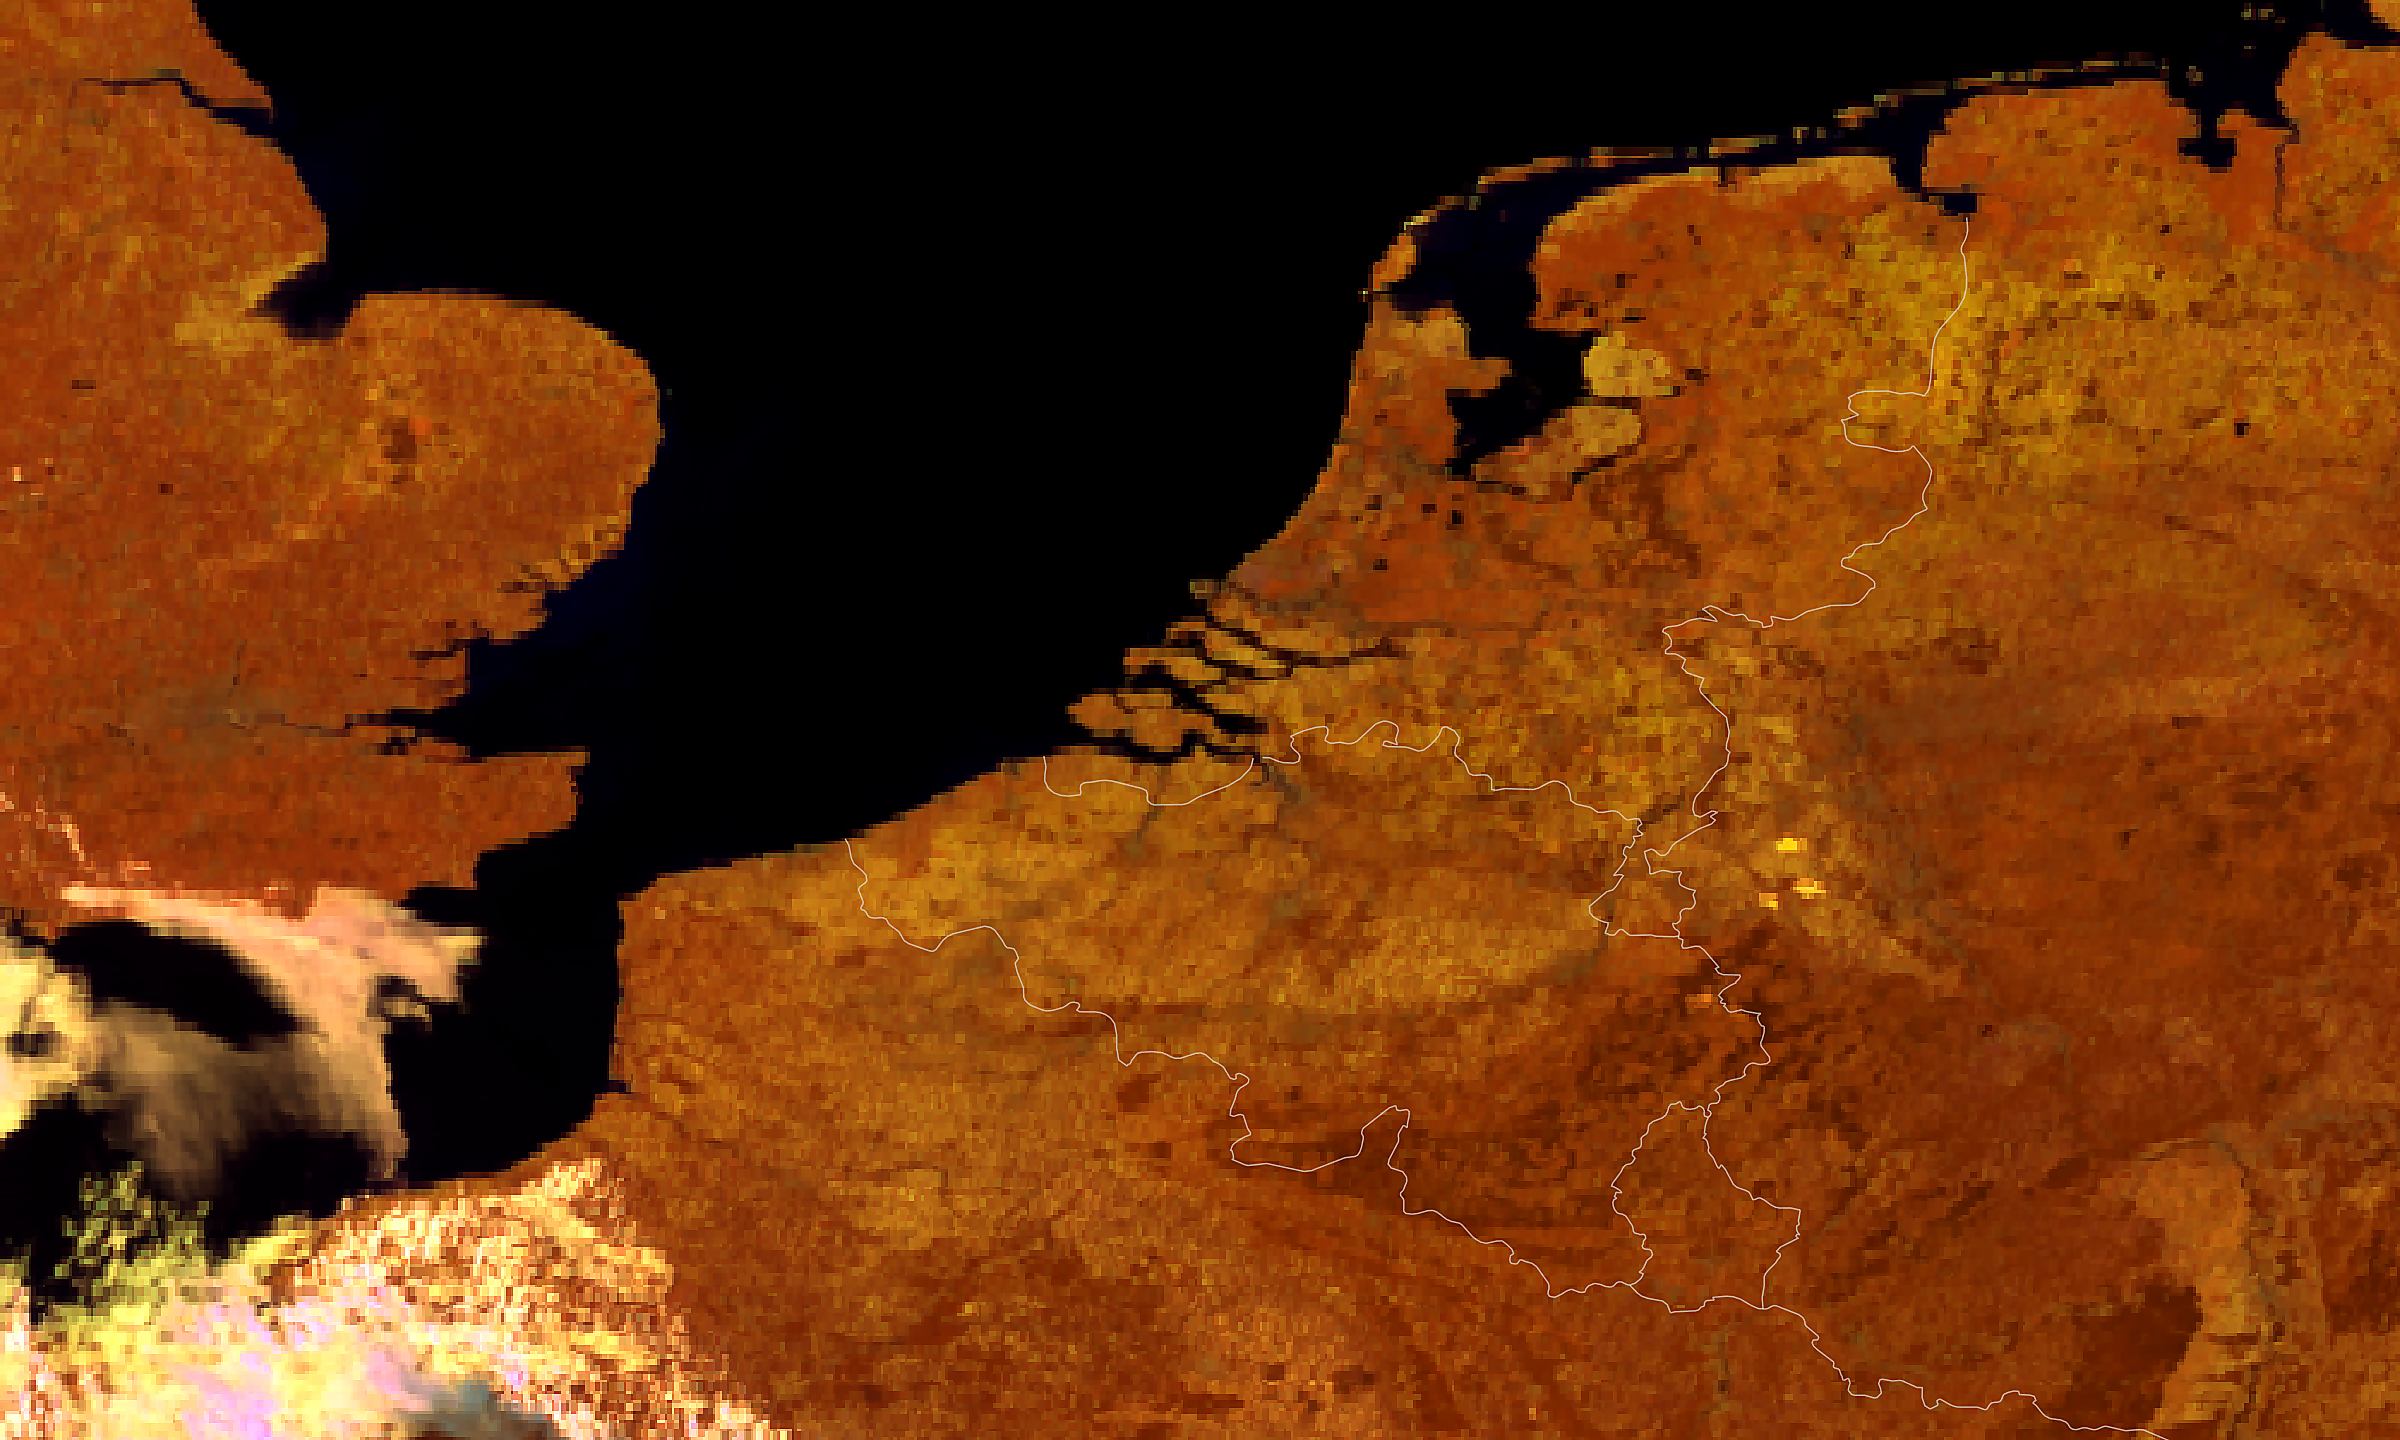
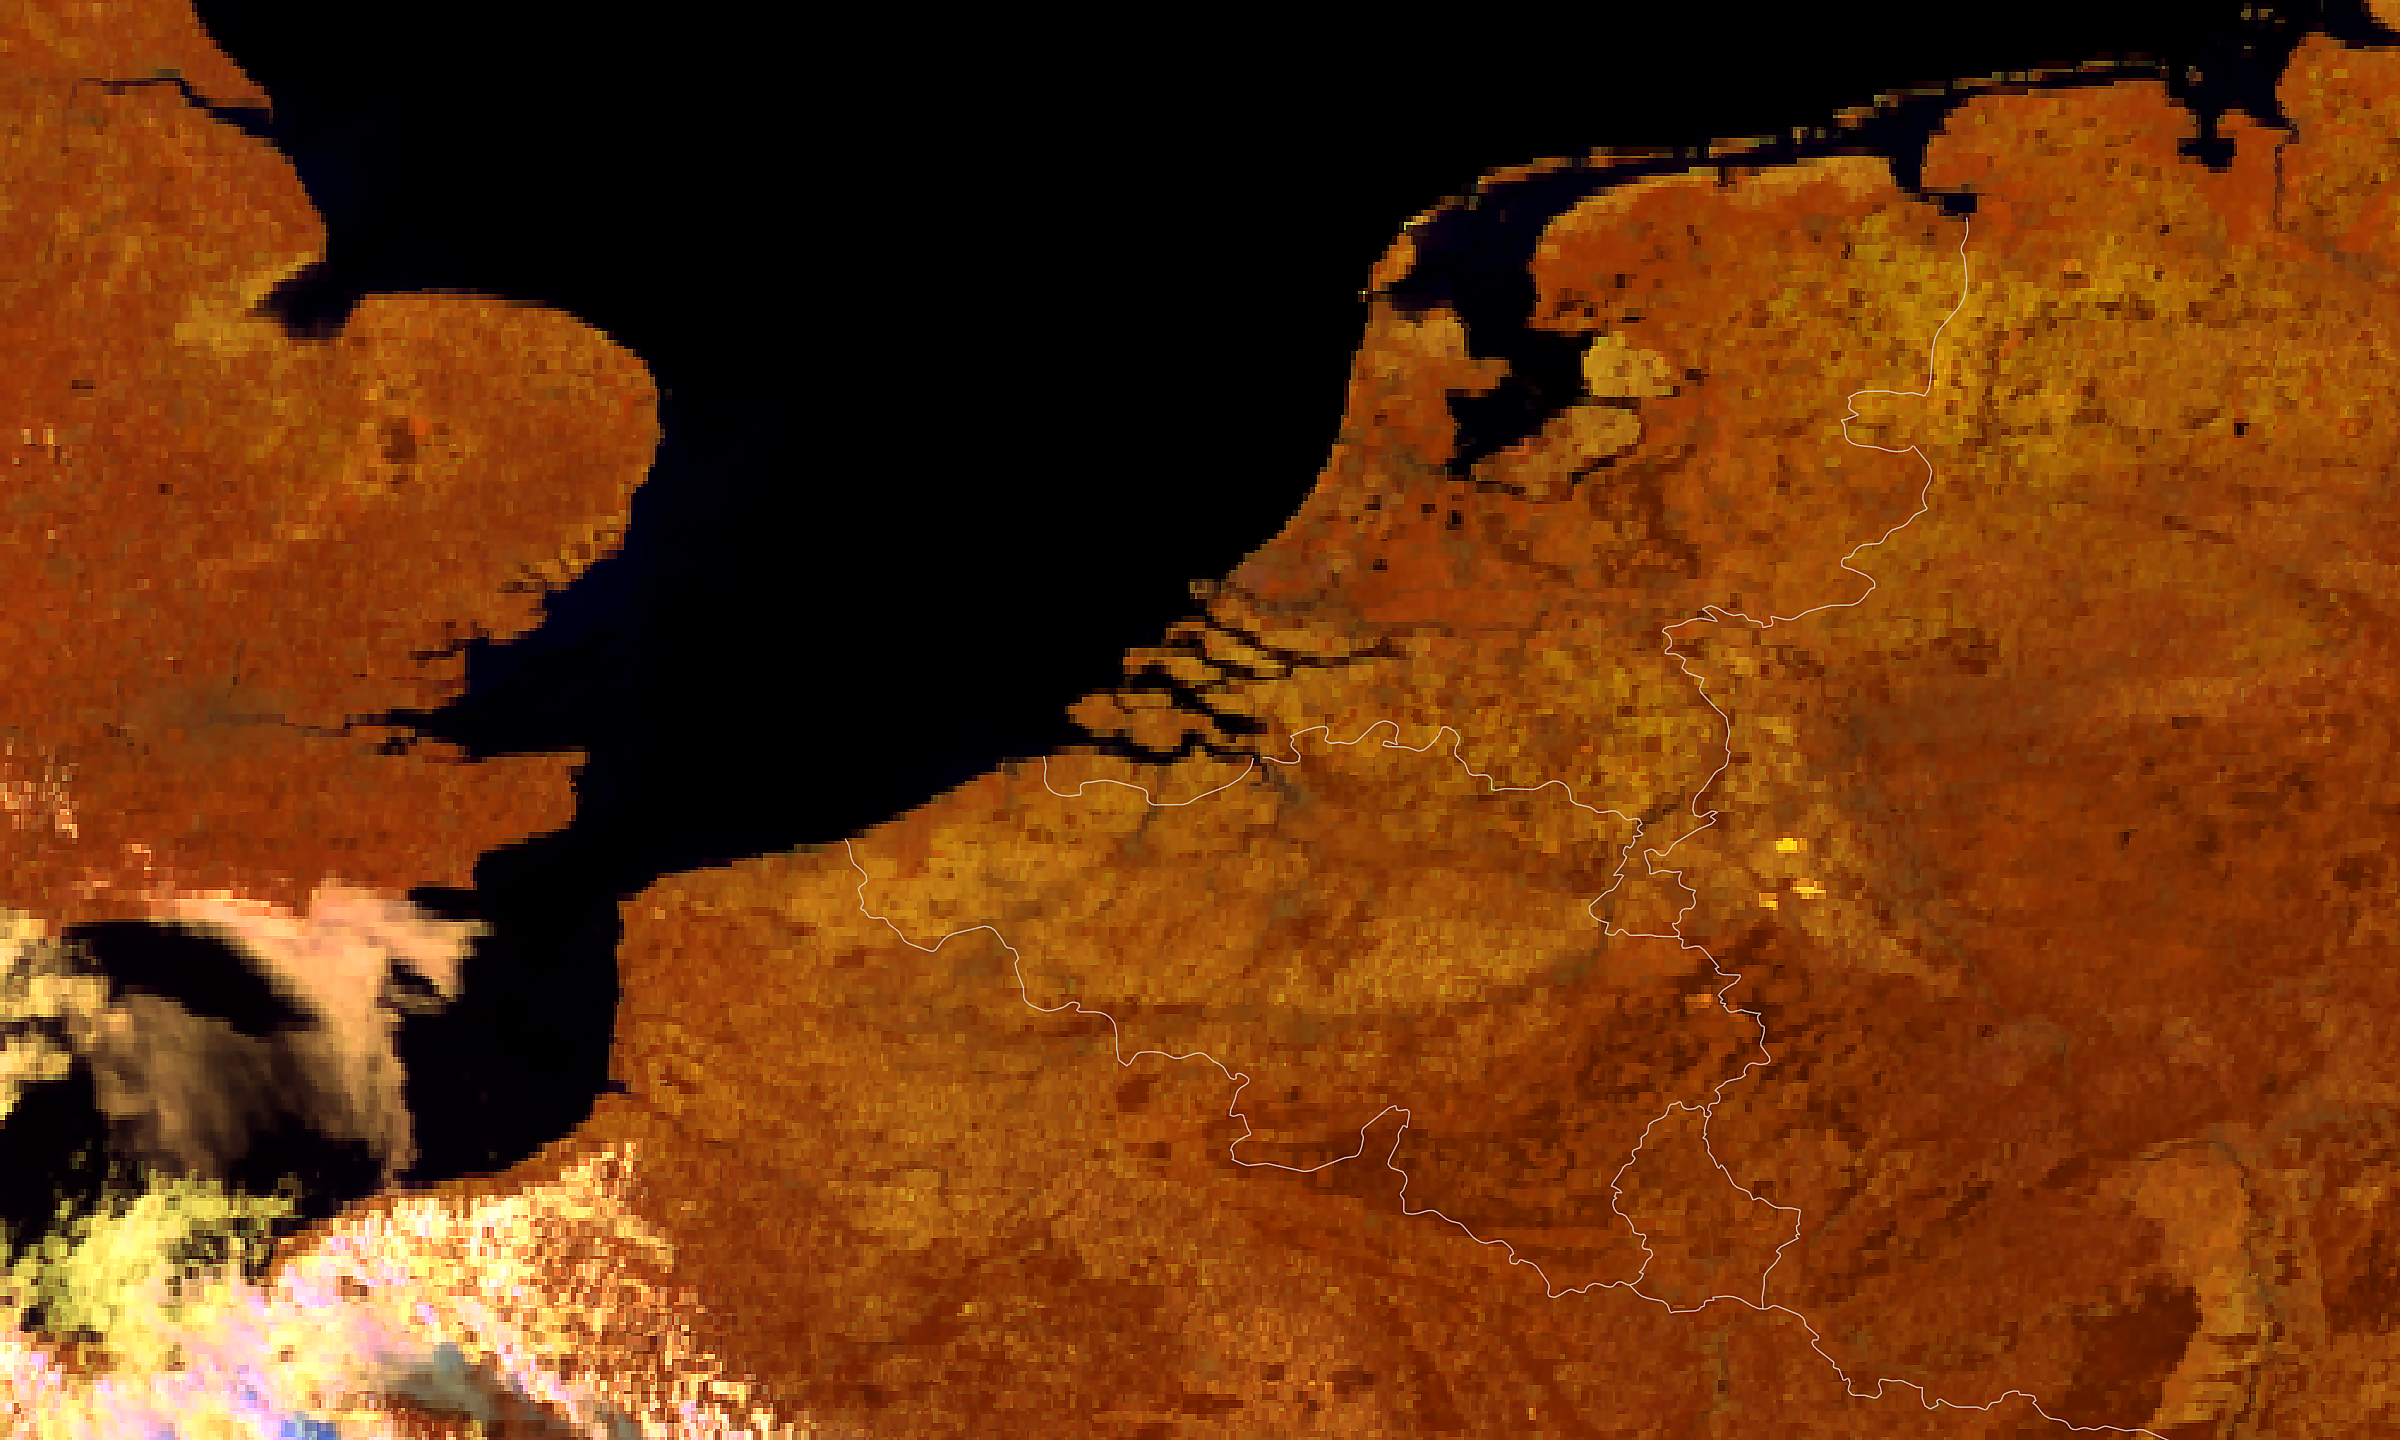
MTG Benelux satellietbeeld update 2026-05-01 15:30

Changed region(s): [[0.0, 0.5312, 0.3438, 1.0], [0.0, 0.2812, 0.0312, 0.3438]]

diff --git a/mtg_benelux_meta.js b/mtg_benelux_meta.js
@@ -1,2 +1,2 @@
 const MTG_BENELUX_PRODUCT = "mtg_fd:rgb_cloudphase";
-const MTG_BENELUX_TIJD = "2026-05-01T12:50:00Z";
+const MTG_BENELUX_TIJD = "2026-05-01T13:10:00Z";
